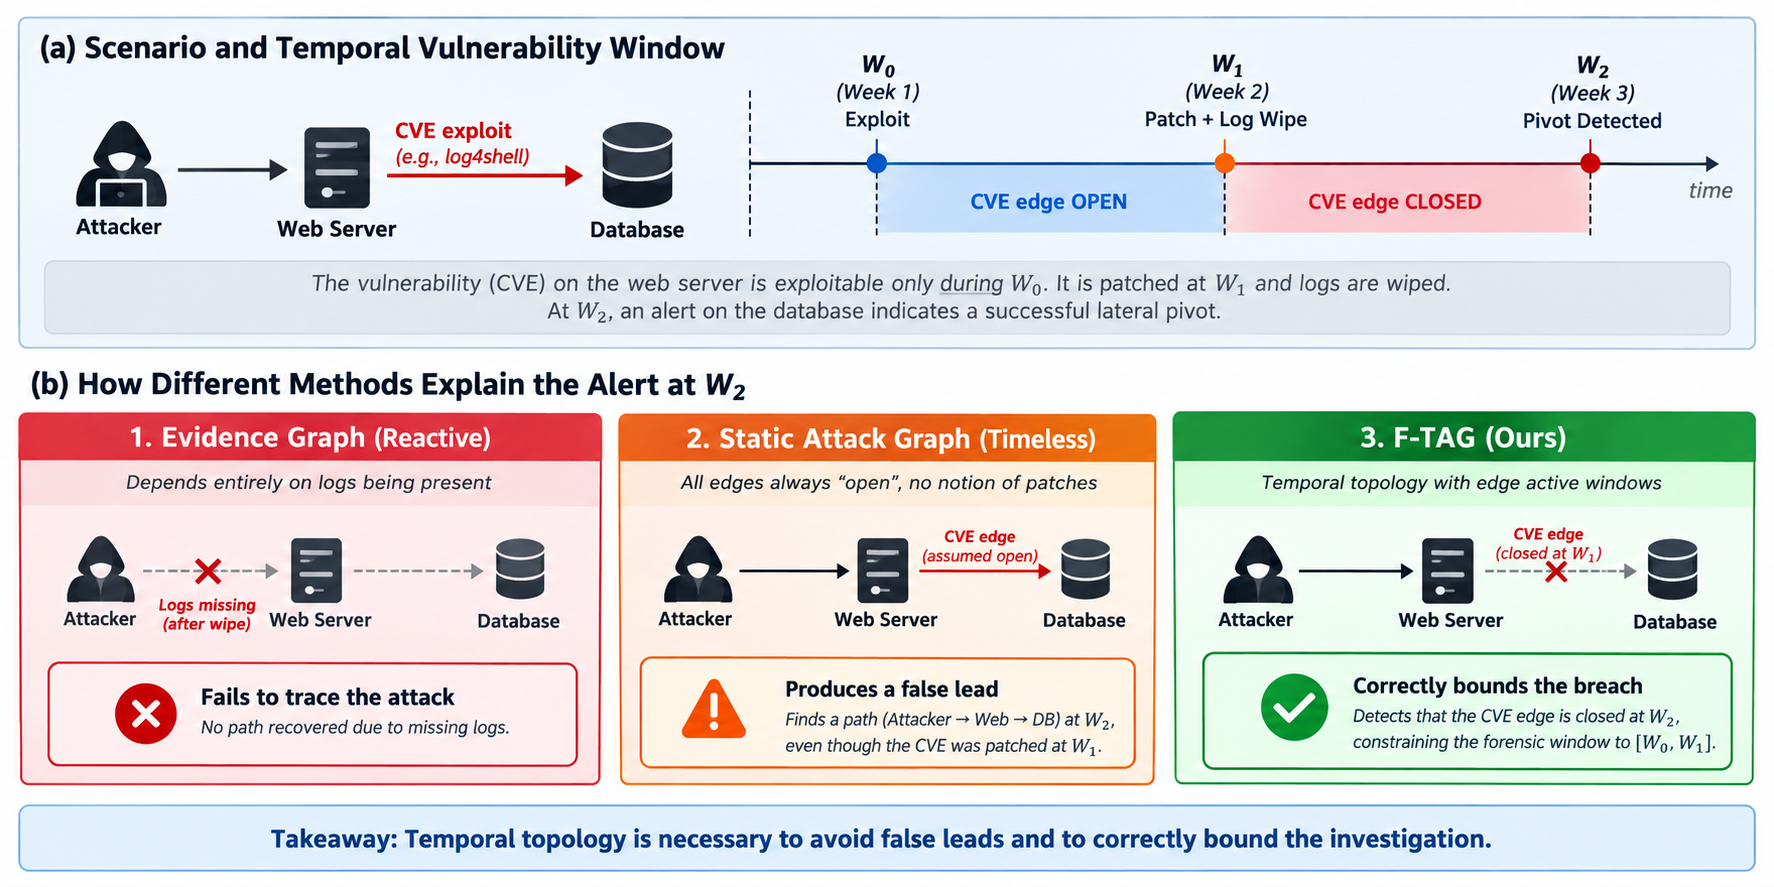
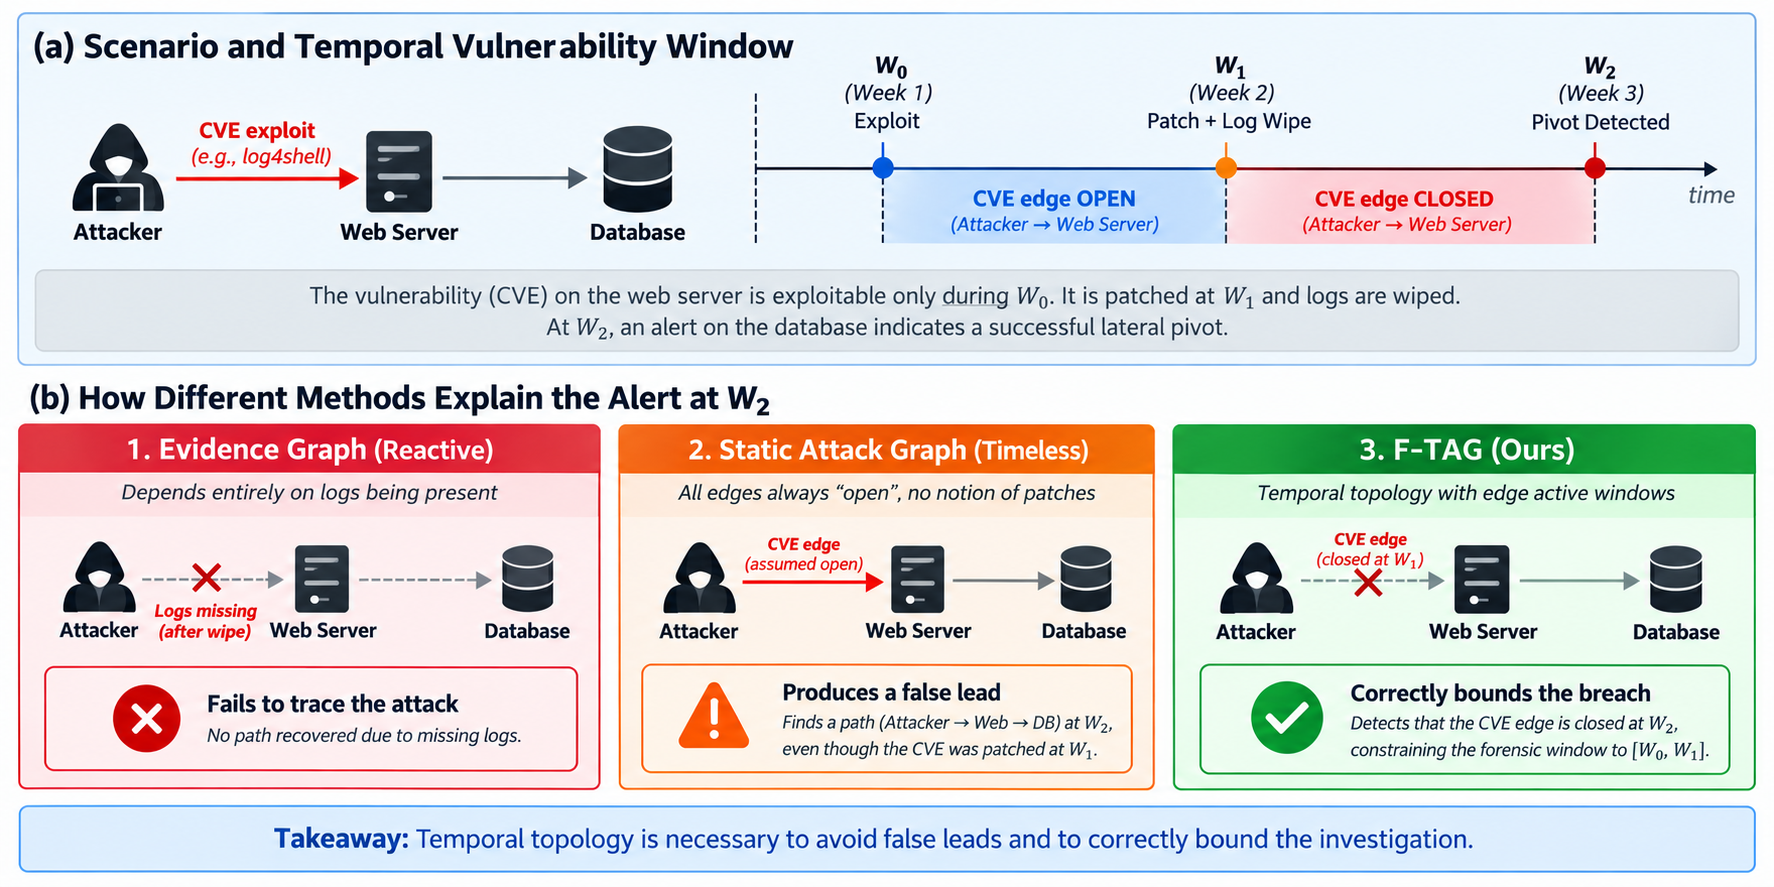
docs: clarify completeness argument in path enumeration section and remove redundant proof subsection

Changed region(s): [[0.0, 0.0609, 0.9921, 1.0], [0.0, 0.0, 0.9921, 0.0913], [0.4651, 0.0609, 0.5271, 0.1522]]

diff --git a/author.tex b/author.tex
@@ -207,7 +207,7 @@ The TAC encapsulates the full structural lifespan of a specific attack narrative
 
 \subsection{Path Enumeration Algorithm}\label{sec:enumeration}
 
-The temporal path enumeration follows a depth-first search (Algorithm~\ref{alg:enumerate}). The chronological pruning at Line 14 restricts traversal to $w \ge w_{min}$, preventing the generation of impossible ``Frankenstein'' paths stitched across non-overlapping vulnerability windows. While traditional correlation relies on local prerequisite-consequence matching without global temporal consistency, one could theoretically achieve correctness by enumerating all paths in a static graph and filtering post-hoc. However, this is combinatorially intractable. Algorithm~\ref{alg:enumerate} integrates temporal constraints directly into the traversal, providing an efficient mechanism without sacrificing correctness.
+The temporal path enumeration follows a depth-first search (Algorithm~\ref{alg:enumerate}). The chronological pruning at Line 14 restricts traversal to $w \ge w_{min}$, preventing the generation of impossible ``Frankenstein'' paths stitched across non-overlapping vulnerability windows. Because this pruning rule mirrors Definition 2's non-decreasing constraint exactly --- an edge is only pruned when using it would violate the same monotonicity condition a valid path must already satisfy --- no structurally feasible path is ever discarded, and the search is complete for all paths of length $\le H_{max}$. While traditional correlation relies on local prerequisite-consequence matching without global temporal consistency, one could theoretically achieve correctness by enumerating all paths in a static graph and filtering post-hoc. However, this is combinatorially intractable. Algorithm~\ref{alg:enumerate} integrates temporal constraints directly into the traversal, providing an efficient mechanism without sacrificing correctness.
 
 \begin{algorithm}[t]
 \caption{Temporal Path Enumeration ($Q^a_{ij}$)}
@@ -236,14 +236,6 @@ The temporal path enumeration follows a depth-first search (Algorithm~\ref{alg:e
 \RETURN $\mathcal{P}_{ij}$
 \end{algorithmic}
 \end{algorithm}
-
-\subsubsection{Completeness of Path Enumeration.}
-We formally prove that Algorithm 1 is complete, i.e., it discovers all valid temporal attack paths without missing any structurally feasible corridors.
-
-\textit{Theorem 1 (Completeness of Temporal Enumeration):} Let $\mathcal{P}_{ij}$ be the set of all paths from $i$ to $j$ returned by Algorithm 1. If there exists a temporal path $p^*$ from $i$ to $j$ satisfying the non-decreasing chronological constraints of Definition 2 with length $|p^*| \le H_{max}$, then $p^* \in \mathcal{P}_{ij}$.
-
-\textit{Proof (sketch):}
-Suppose a valid path $p^* = ((e_1,w_1),\dots,(e_n,w_n))$ with $n \le H_{max}$ is not returned. Since the DFS explores all outgoing edges up to depth $H_{max}$ (with revisits permitted), the only mechanism for missing $p^*$ is if the chronological filter at Line~12 prunes some edge $(e_k,w_k)$, meaning the algorithm holds $w_{min} > w_k$ at that step. But the algorithm sets $w_{min} = w_{k-1}$ on arrival at $e_k.\text{src}$, so $w_{min} > w_k$ implies $w_{k-1} > w_k$, contradicting the non-decreasing constraint that $p^*$ must satisfy by Definition~2. Therefore no valid edge is ever pruned, and $p^*$ must be discovered. $\square$
 
 \subsection{Proactive Structural TAG Metrics}\label{sec:proactive}
 
